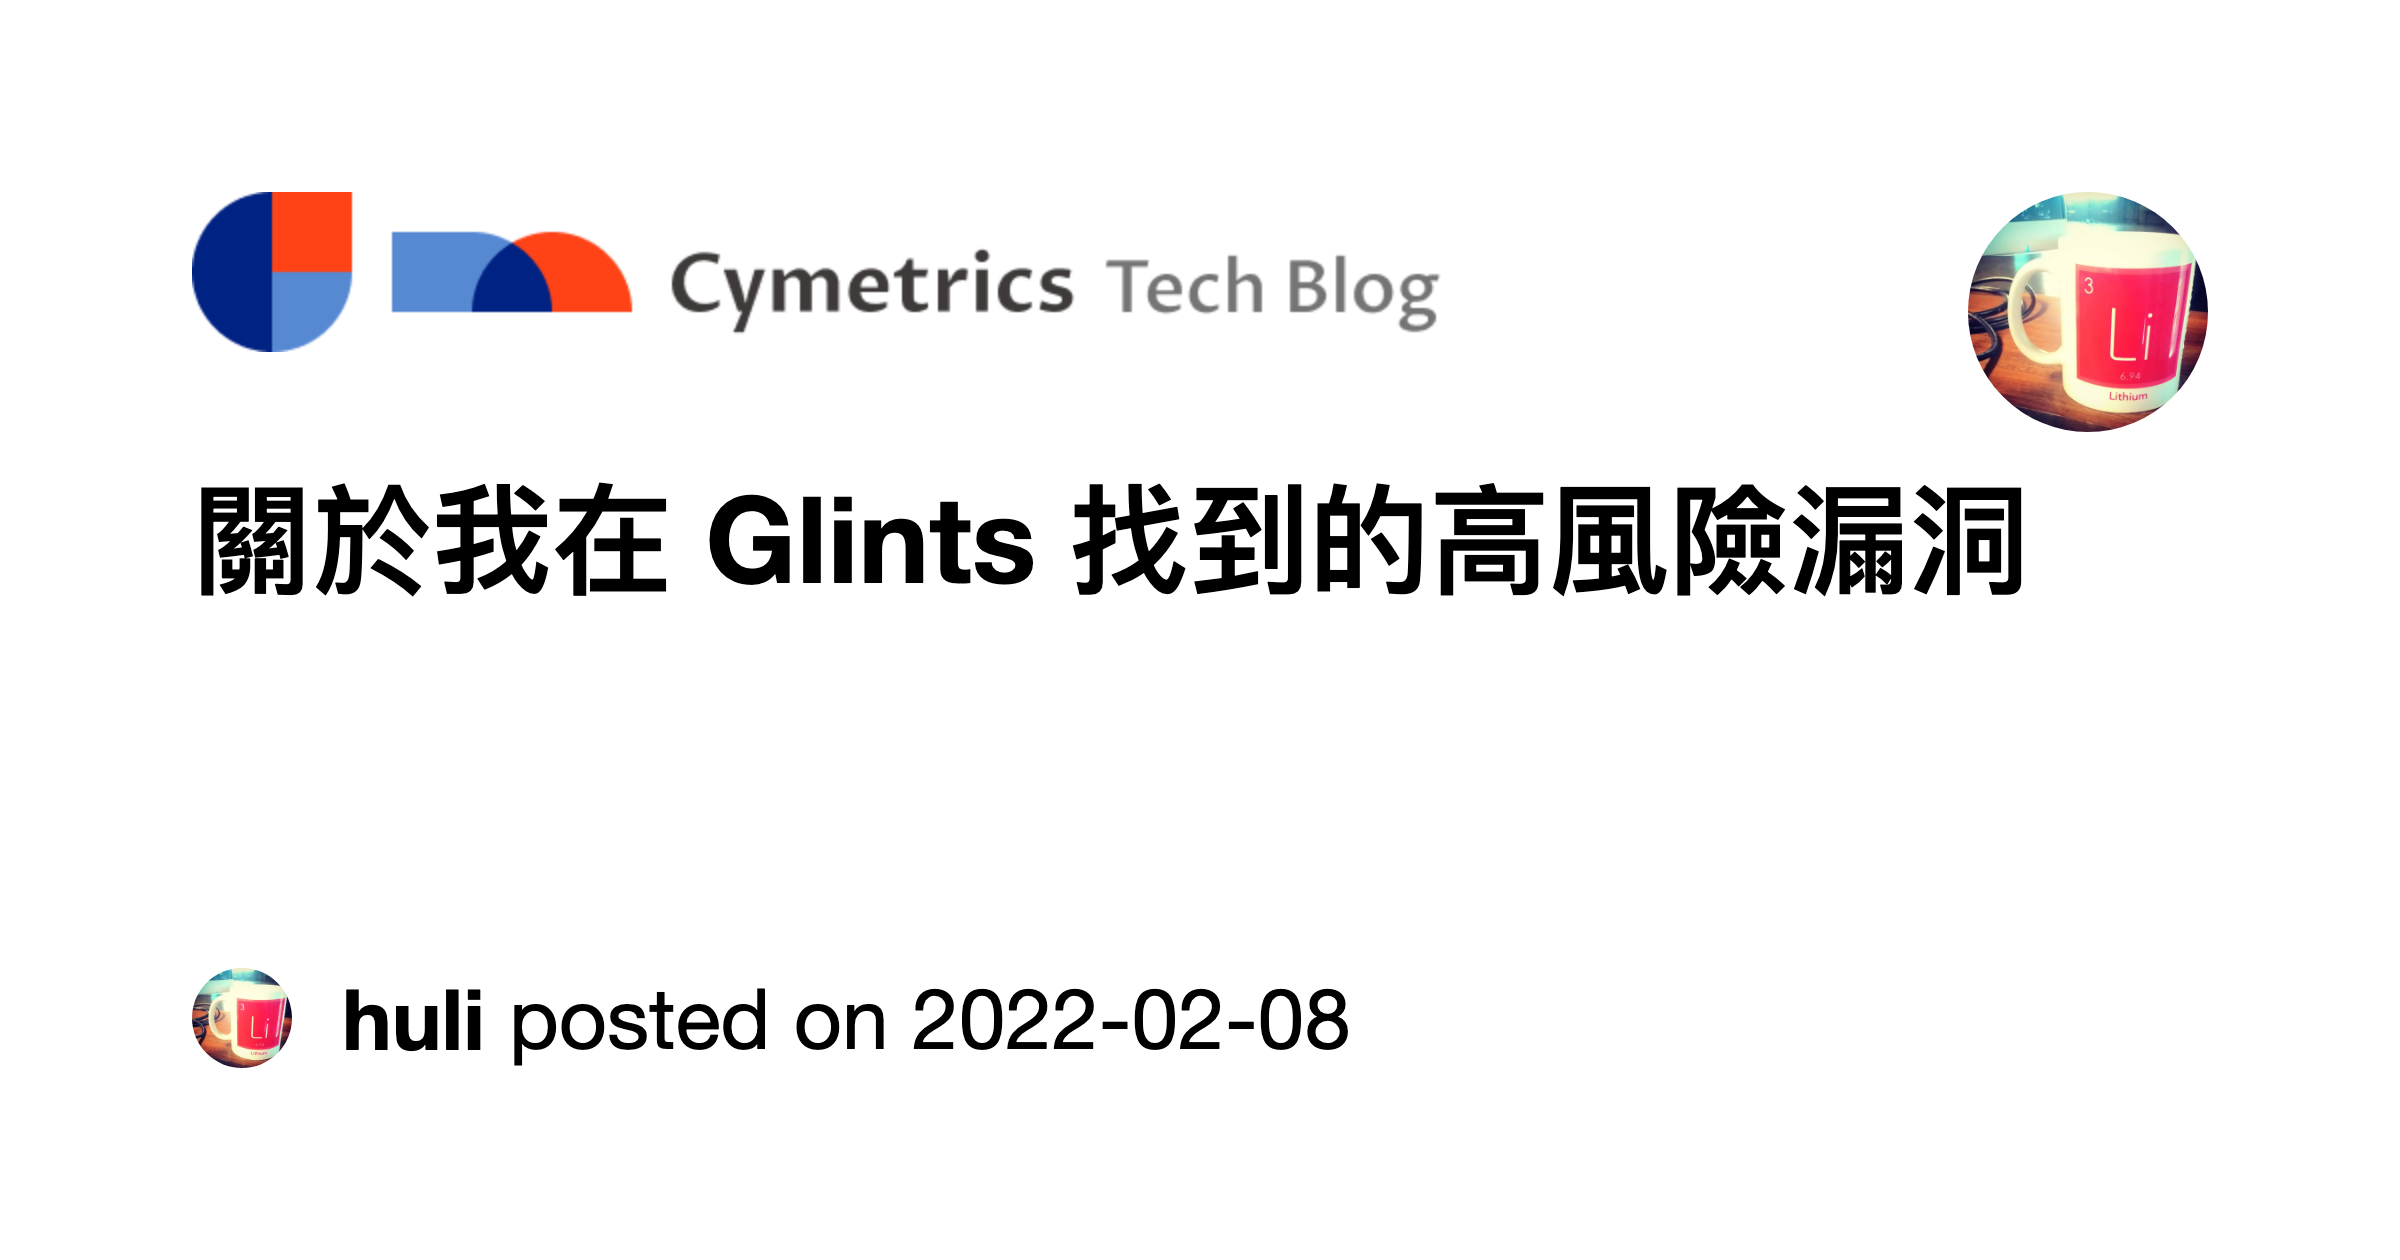
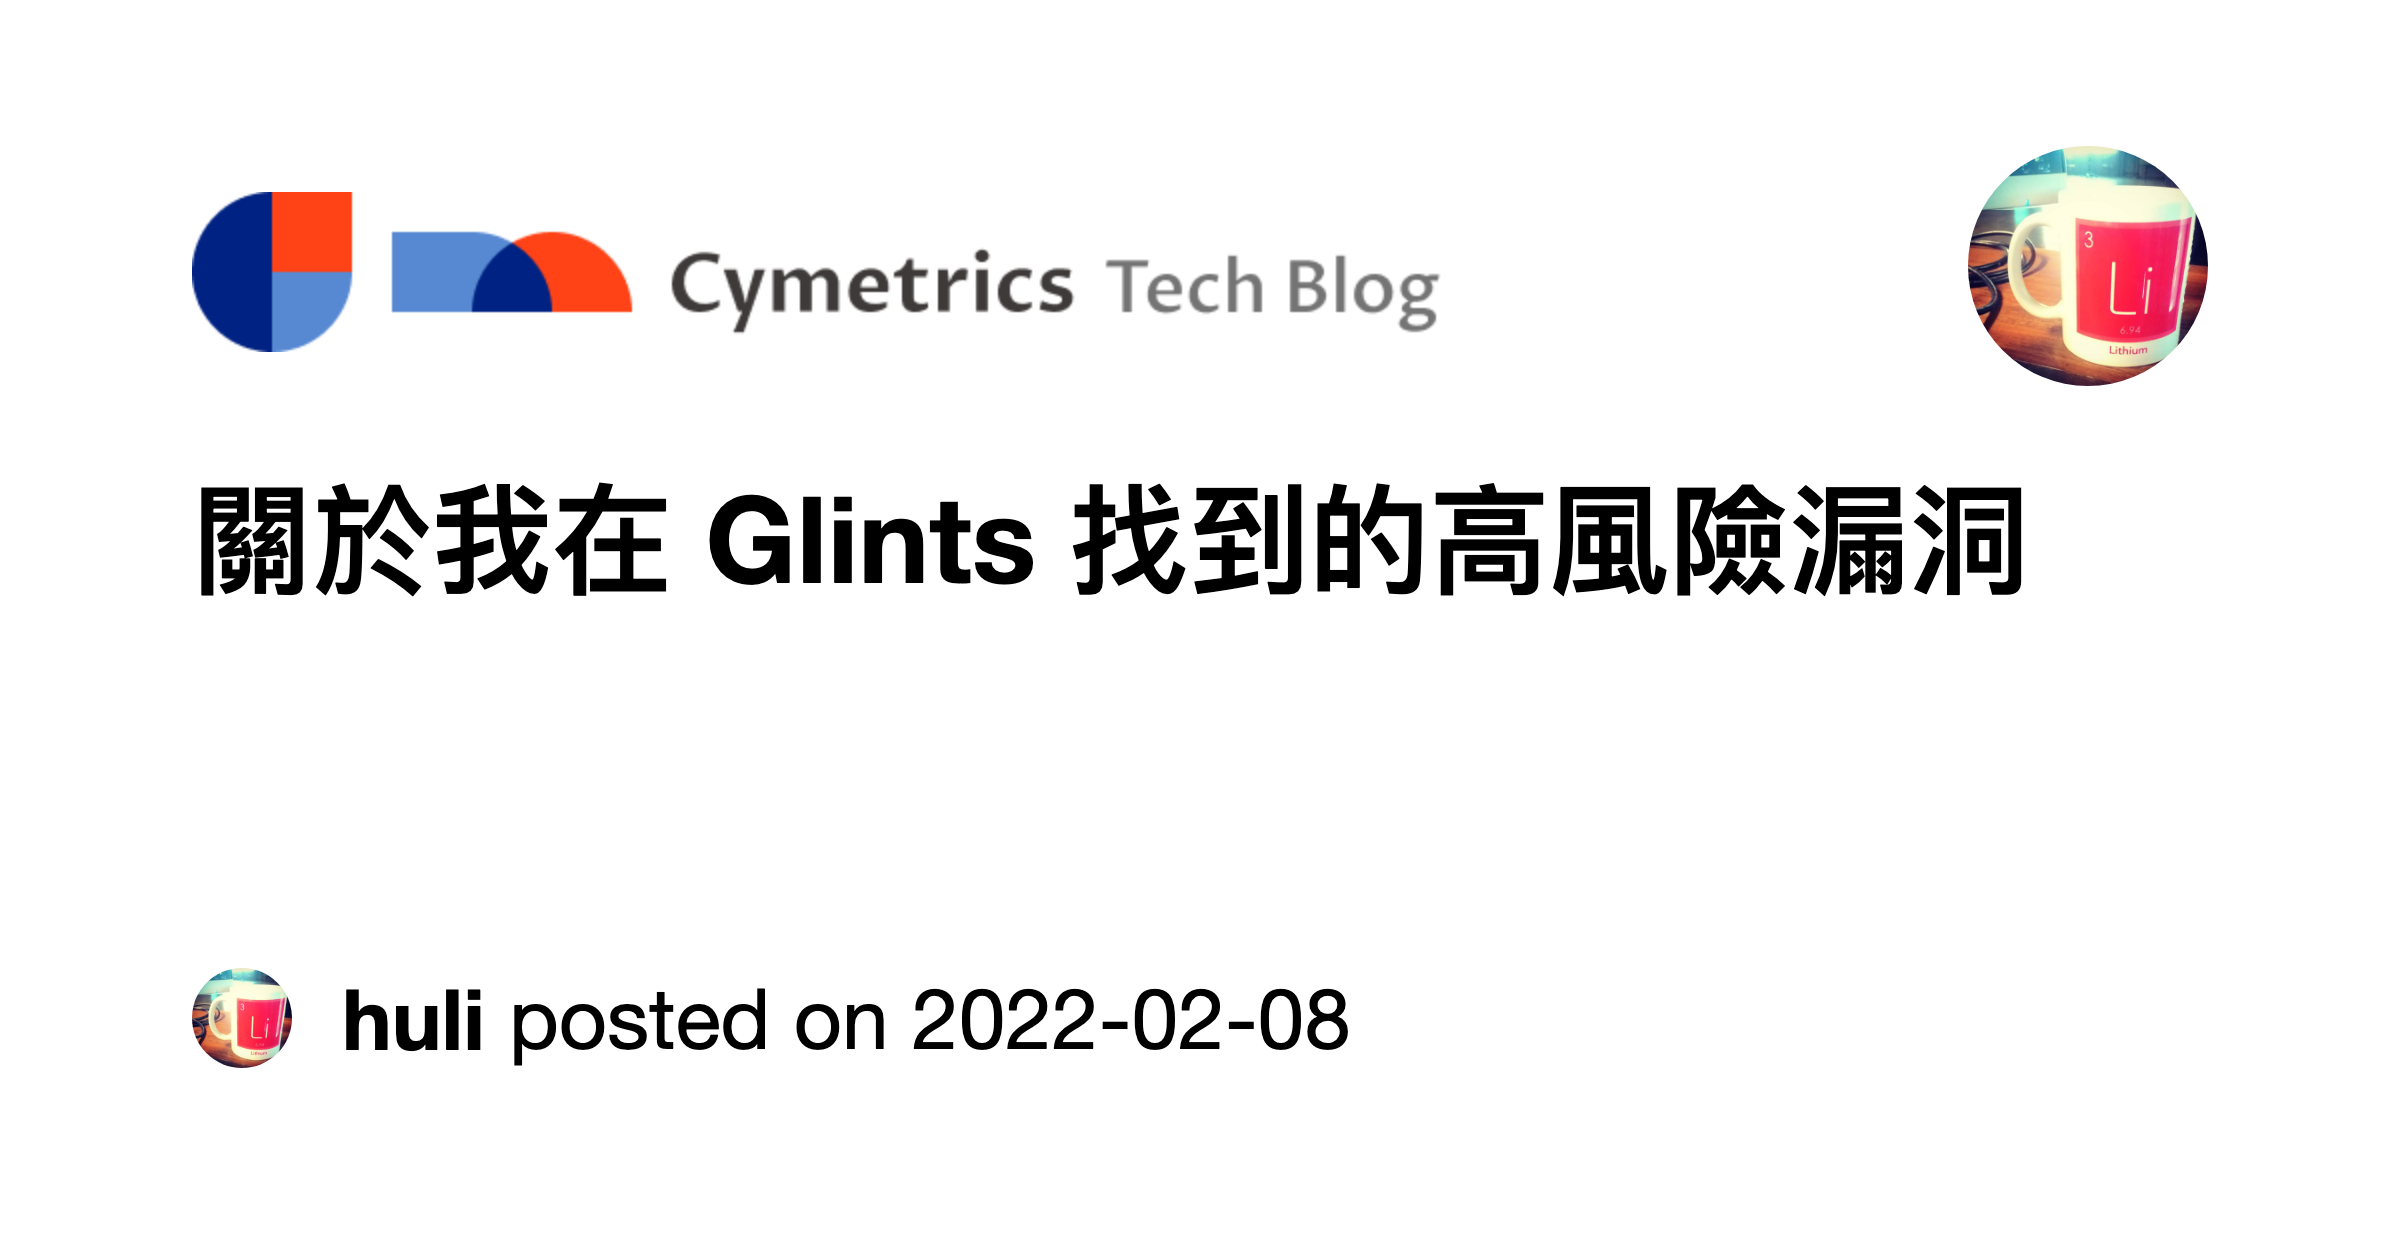
update template

Changed region(s): [[0.8125, 0.0929, 0.9375, 0.3405]]

diff --git a/og-image-generator/resources/template.html b/og-image-generator/resources/template.html
@@ -34,7 +34,7 @@
 
     .author-logo {
       position: absolute;
-      top: 96px;
+      top: 73px;
       right: 96px;
       width: 120px;
       height: 120px;
